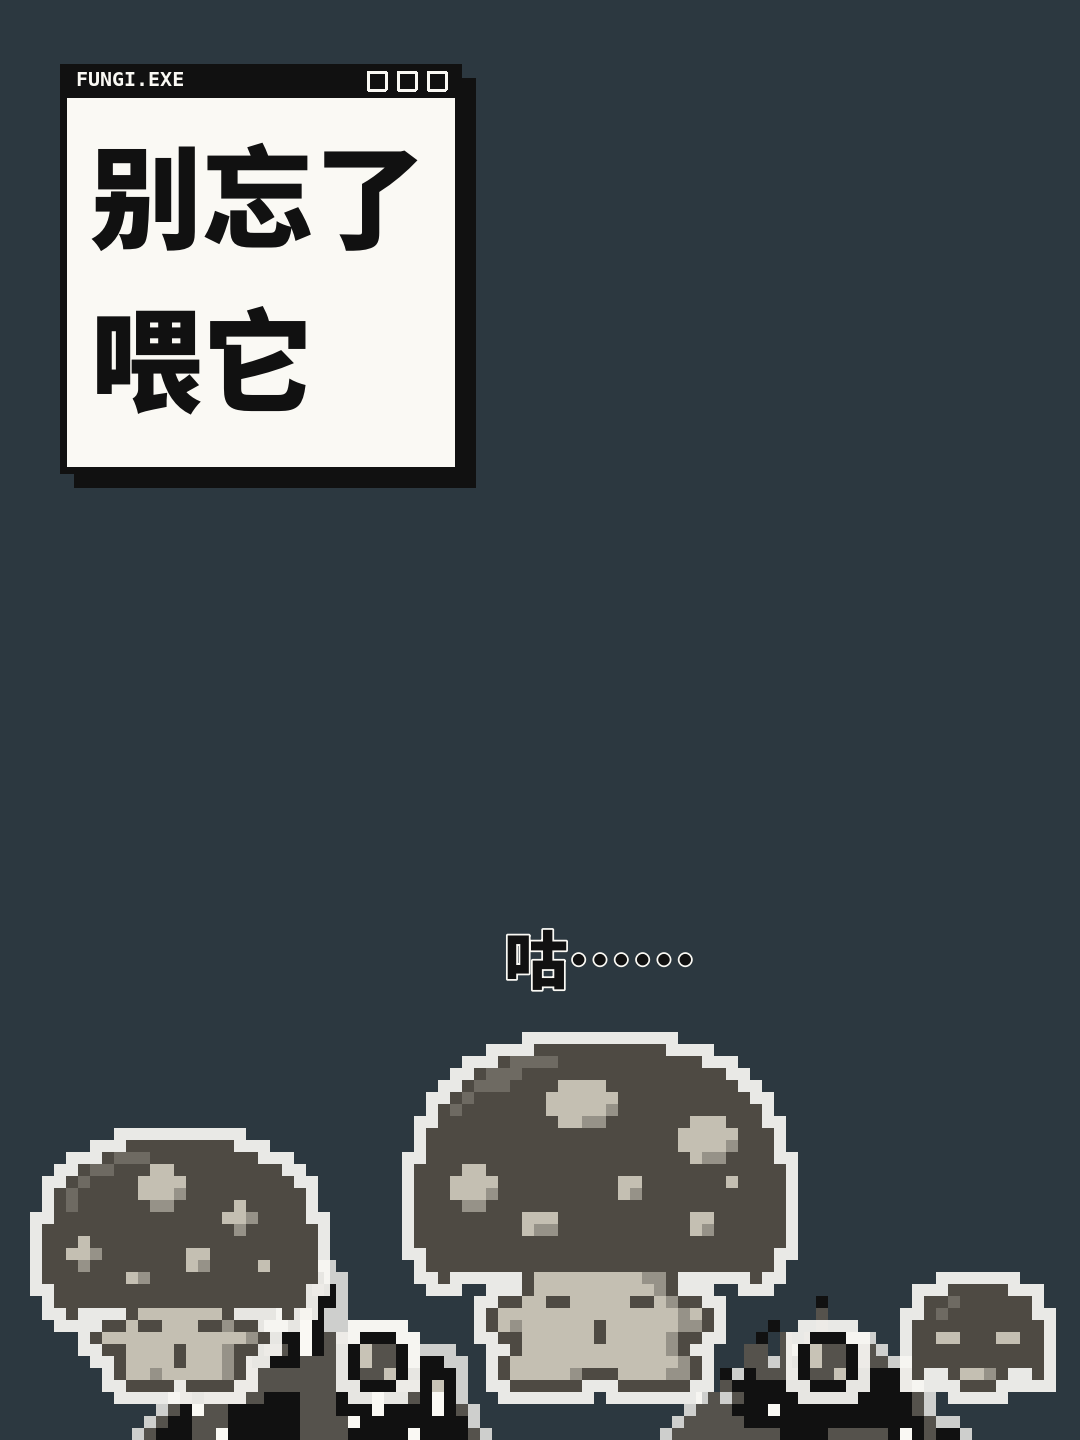
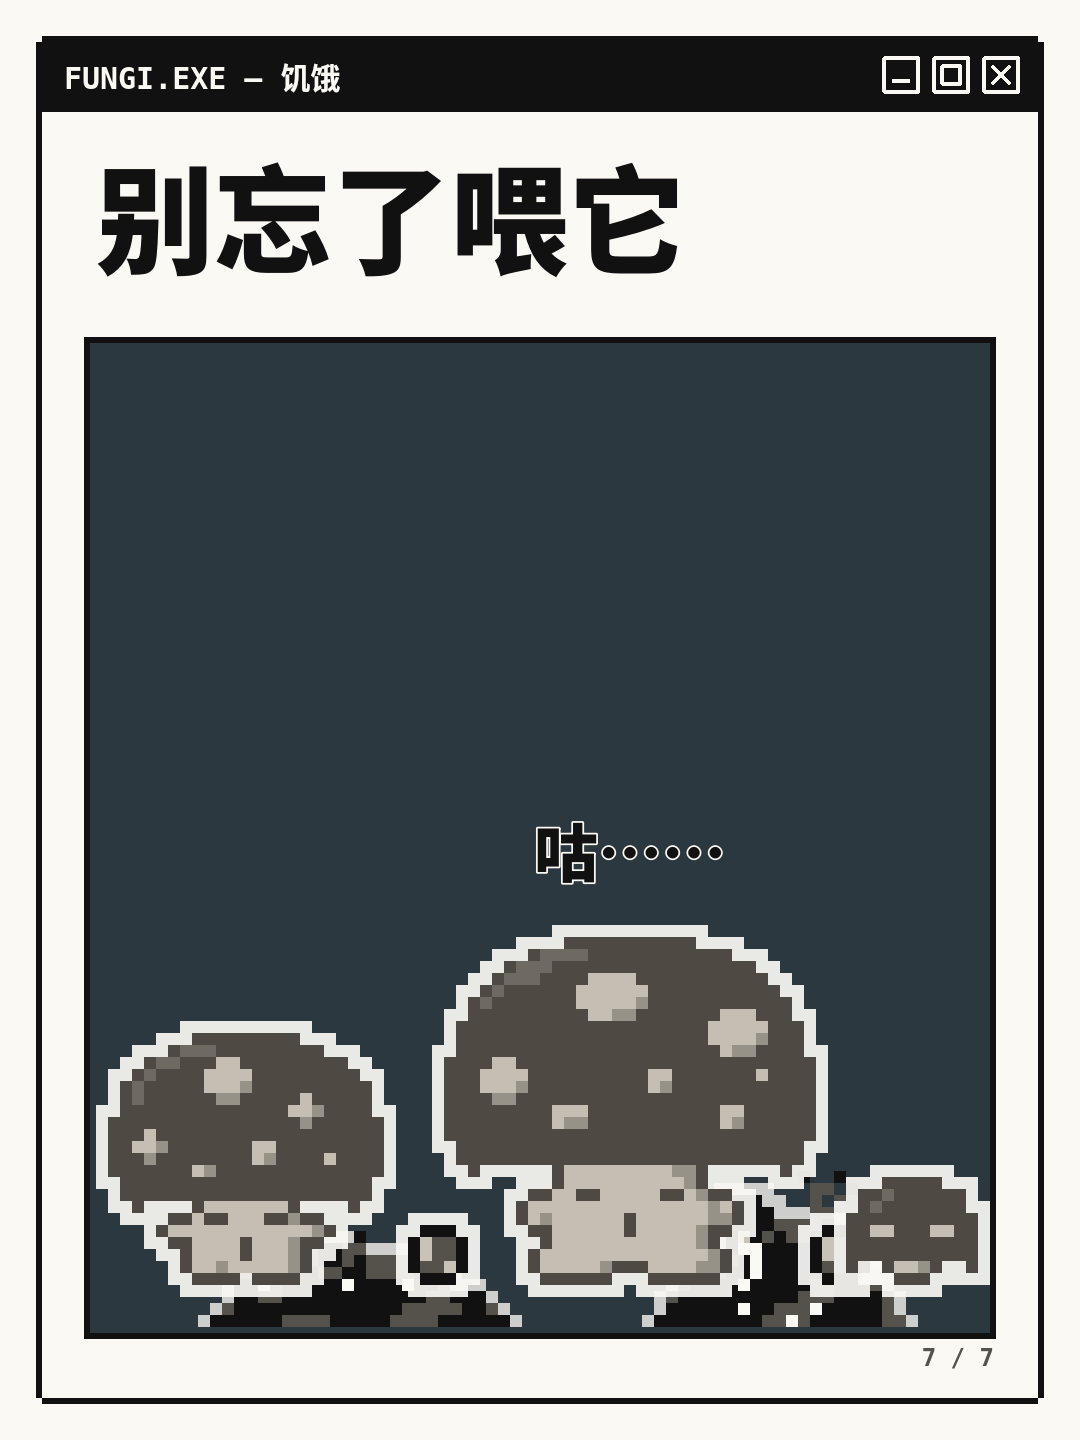
宣传图：恢复像素窗口样式，保留少字大画面
- 纸白底 + FUNGI.EXE 像素窗口 + 大号标题回归；每张只一句标题，不要副标题和数据
- 标题下方场景框占满剩余区域，3～4 倍放大：菌毯长满、满屏菌斑、吃文件特写、喷孢子、饿扁菌落
- 聊天页一问一答（标注风格示例）

Claude-Session: https://claude.ai/code/session_013FpuDuyBZYGi6UswjxSb26

diff --git a/promo/make_promo.py b/promo/make_promo.py
@@ -242,148 +242,134 @@ def put_icon(q: QPainter, rows, x, y):
     return y + img.height()
 
 
-# ───────────── 页面：少字，画面铺满 ─────────────
-
-def canvas() -> tuple[QImage, QPainter]:
-    img = QImage(W, H, QImage.Format.Format_ARGB32)
-    img.fill(WALL)
-    p = QPainter(img)
-    p.setRenderHint(QPainter.RenderHint.TextAntialiasing)
-    return img, p
+def measure(s: str, px: int, max_w: int) -> tuple[int, int]:
+    box = QFontMetrics(font(px, QFont.Weight.Bold)).boundingRect(QRect(0, 0, max_w, 2000), int(Qt.TextFlag.TextWrapAnywhere), s)
+    return box.width() + 44, box.height() + 40
 
 
-def title_box(p: QPainter, s: str, x: int = 60, y: int = 64, px: int = 100):
-    """压在画面左上角的像素小窗口，只放一句标题"""
-    f = font(px)
-    r = QFontMetrics(f).boundingRect(QRect(0, 0, W - 2 * x, 1000), int(Qt.TextFlag.TextWordWrap), s)
-    pad, bar = 30, 34
-    w, h = r.width() + 2 * pad + 6, r.height() + 2 * pad + bar - 10
-    p.fillRect(x + 14, y + 14, w, h, INK)
-    p.fillRect(x, y, w, h, INK)
-    p.fillRect(x + 7, y + bar, w - 14, h - bar - 7, PAPER)
-    text(p, QRect(x + 16, y + 3, 400, 30), "FUNGI.EXE", mono(20), PAPER)
-    for i in range(3):
-        p.setPen(QPen(PAPER, 3))
-        p.drawRect(x + w - 34 - i * 30, y + 8, 18, 18)
-    text(p, QRect(x + pad, y + bar + pad - 18, r.width() + 8, r.height() + 8), s, f)
+# ───────────── 页面：像素窗口 + 一句标题 + 大场景 ─────────────
+
+def framed(bar: str, index: str, title: str, size: int = 118):
+    """上一版的窗口外观；标题下面整块给场景"""
+    img, p = page(bar, index)
+    bottom = headline(p, 128, title, "", size=size)
+    top = bottom + 44
+    return img, p, top
 
 
-def full_scene(base_w: int, base_h: int, zoom: int, seed: int) -> Scene:
-    sc = Scene(base_w, base_h, seed=seed)
+def stage_scene(top: int, zoom: int, seed: int) -> Scene:
+    bottom = H - 36 - 70
+    sc = Scene(900 // zoom, (bottom - top) // zoom, seed=seed)
     sc.Z = zoom
     return sc
 
 
-def overgrow(sc: Scene, steps: int, points: int = 10):
-    rng = random.Random(sc.rng.random())
-    sc.grow([(e, rng.random()) for e in ("top", "right", "bottom", "left") for _ in range(points // 4 + 1)], steps)
+def place(p: QPainter, sc: Scene, top: int):
+    sc.blit(p, (W - sc.w * sc.Z) // 2, top)
+
+
+def edges(sc: Scene, steps: int, per_edge: int = 3, seed: int = 0):
+    rng = random.Random(seed)
+    sc.grow([(e, rng.random()) for e in ("top", "right", "bottom", "left") for _ in range(per_edge)], steps)
     sc.render_mat(full=True)
 
 
-def show(p: QPainter, sc: Scene):
-    sc.ox = sc.oy = 0
-    p.drawPixmap(0, 0, big(sc.img, sc.Z))
-
-
 def cover():
-    img, p = canvas()
-    sc = full_scene(360, 480, 3, seed=31)
-    overgrow(sc, 30000, 16)
+    img, p, top = framed("FUNGI.EXE", "", "我的桌面\n长蘑菇了", size=132)
+    sc = stage_scene(top, 3, seed=31)
+    edges(sc, 22000, 4, seed=2)
     rng = random.Random(8)
     sc.patches = [F.Patch(x, y, r, int(r) + 1, rng.randrange(1 << 30)) for x, y, r in
-                  ((110, 300, 6), (262, 240, 7), (300, 150, 4), (70, 195, 3.5), (180, 360, 3))]
+                  ((70, 90, 5), (215, 120, 7), (140, 40, 3.5), (255, 40, 3))]
     q = sc.begin()
     ground = sc.h - 12
-    draw_spitter(q, sc, 0.9)
-    for pm, x in ((pet(3), 112), (pet(4), 214), (pet(2, blink=True), 306)):
-        feet(q, pm, x, ground)
-    feet(q, pet(1), 262, 240 + 4)
-    feet(q, pet(0, size=4), 110, 300)
+    draw_spitter(q, sc, 0.08)
+    feet(q, pet(3), 62, ground)
+    feet(q, pet(4), 164, ground)
+    feet(q, pet(2, blink=True), 215, 120 + 2)
+    feet(q, pet(0, size=4), 70, 90)
     q.end()
-    show(p, sc)
-    title_box(p, "我的桌面\n长蘑菇了", px=112)
+    place(p, sc, top)
     p.end()
     return img
 
 
 def growth():
-    img, p = canvas()
-    sc = full_scene(540, 720, 2, seed=5)
-    sc.grow([("bottom", x / 10) for x in range(10)], 5200)
+    img, p, top = framed("FUNGI.EXE — 成长", "2 / 7", "从一个黑点开始")
+    sc = stage_scene(top, 2, seed=5)
+    sc.grow([("bottom", x / 10) for x in range(10)], 4800)
     sc.render_mat(full=True)
-    upper = [(pet(0, size=3), 150), (pet(1), 400), (pet(2), 770)]
-    lower = [(pet(3), 270), (pet(4), 770)]
-    ground_up, ground_low = 900, H - 40
-    sc.patches = [F.Patch(int(x / 2), int(ground_up / 2) - 4, r, int(r) + 1, i * 31 + 5)
+    place(p, sc, top)
+    upper_ground, lower_ground = top + 470, top + sc.h * 2 - 24
+    upper = [(pet(0, size=3), 190), (pet(1), 420), (pet(2), 760)]
+    lower = [(pet(3), 300), (pet(4), 740)]
+    sc.patches = [F.Patch(int((x - sc.ox) / 2), int((upper_ground - sc.oy) / 2) - 4, r, int(r) + 1, i * 31 + 5)
                   for i, ((_, x), r) in enumerate(zip(upper, (5, 7.5, 9)))]
     q = sc.begin()
     q.end()
-    show(p, sc)
+    place(p, sc, top)
     for pm, x in upper:
-        feet(p, big(pm, 3), x, ground_up)
+        feet(p, big(pm, 3), x, upper_ground)
     for pm, x in lower:
-        feet(p, big(pm, 3), x, ground_low)
-    title_box(p, "从一个黑点\n开始", px=112)
+        feet(p, big(pm, 3), x, lower_ground)
     p.end()
     return img
 
 
 def feeding():
-    img, p = canvas()
-    sc = full_scene(270, 360, 4, seed=6)
-    sc.grow([("bottom", 0.2), ("bottom", 0.8), ("left", 0.3), ("right", 0.6)], 2600)
+    img, p, top = framed("FUNGI.EXE — 喂食", "3 / 7", "喂它文件")
+    sc = stage_scene(top, 4, seed=6)
+    sc.grow([("bottom", 0.2), ("bottom", 0.8), ("left", 0.4), ("right", 0.5)], 2600)
     sc.render_mat(full=True)
     q = sc.begin()
     ground = sc.h - 12
     young = pet(3, mouth=True)
-    cx = 160
+    cx = 128
     feet(q, young, cx, ground)
     rng = random.Random(4)
     for _ in range(16):
-        a = rng.uniform(-2.8, -0.35)
+        ang = rng.uniform(-2.8, -0.35)
         d = rng.uniform(14, 52)
-        x, y = cx + math.cos(a) * d, ground - young.height() + 14 + math.sin(a) * d
+        x, y = cx + math.cos(ang) * d, ground - young.height() + 14 + math.sin(ang) * d
         q.fillRect(int(x) - 3, int(y) - 3, 6, 6, PAPER)
         q.fillRect(int(x) - 2, int(y) - 2, 4, 4, INK)
-    q.drawImage(34, 150, icon(FOLDER))
-    arc(q, (70, 150), (cx - 4, ground - young.height() - 4), 26, dots=9)
+    q.drawImage(22, 96, icon(FOLDER))
+    arc(q, (56, 96), (cx - 4, ground - young.height() - 4), 26, dots=9)
     doc = icon(DOC)
     q.drawImage(int(cx - 30), int(ground - young.height() - 44), doc.scaled(int(doc.width() * 0.6), int(doc.height() * 0.6)))
     q.end()
-    show(p, sc)
+    place(p, sc, top)
     fx, fy = sc.at(cx, ground - young.height())
-    label(p, "+19", fx + 190, fy - 10, px=84)
-    title_box(p, "喂它文件", px=112)
+    label(p, "+19", fx + 200, fy + 10, px=84)
     p.end()
     return img
 
 
 def overgrown():
-    img, p = canvas()
-    sc = full_scene(360, 480, 3, seed=77)
-    overgrow(sc, 40000, 24)
+    img, p, top = framed("FUNGI.EXE — 菌毯", "4 / 7", "放着不管\n就长满了")
+    sc = stage_scene(top, 3, seed=77)
+    edges(sc, 30000, 6, seed=5)
     rng = random.Random(21)
     spots = []
-    while len(spots) < 9:
-        x, y = rng.uniform(60, 300), rng.uniform(80, 420)
-        if all(math.hypot(x - a, y - b) > 62 for a, b in spots) and not (x < 210 and y < 130) and math.hypot(x - 180, y - 260) > 50:
+    while len(spots) < 8:
+        x, y = rng.uniform(50, sc.w - 50), rng.uniform(45, sc.h - 45)
+        if all(math.hypot(x - a, y - b) > 58 for a, b in spots) and math.hypot(x - sc.w / 2, y - sc.h / 2) > 45:
             spots.append((x, y))
-    sc.patches = [F.Patch(int(x), int(y), rng.uniform(3.5, 8.5), 9, rng.randrange(1 << 30)) for x, y in spots]
+    sc.patches = [F.Patch(int(x), int(y), rng.uniform(3.5, 8), 9, rng.randrange(1 << 30)) for x, y in spots]
     q = sc.begin()
-    feet(q, pet(0, size=3), 180, 270)
+    feet(q, pet(0, size=3), sc.w / 2, sc.h / 2 + 10)
     q.end()
-    show(p, sc)
-    title_box(p, "放着不管\n就长满了", px=112)
+    place(p, sc, top)
     p.end()
     return img
 
 
 def spitter_page():
-    img, p = canvas()
-    sc = full_scene(360, 480, 3, seed=14)
-    sc.grow([("bottom", x / 6) for x in range(6)] + [("left", 0.5), ("right", 0.5)], 6000)
+    img, p, top = framed("FUNGI.EXE — 喷孢菌", "5 / 7", "它会喷孢子")
+    sc = stage_scene(top, 3, seed=14)
+    sc.grow([("bottom", x / 6) for x in range(6)] + [("left", 0.5), ("right", 0.5), ("top", 0.5)], 6000)
     sc.render_mat(full=True)
-    landings = [(70, 250, 5.5), (300, 200, 4.5), (180, 150, 0), (290, 330, 0), (60, 380, 3.5)]
+    landings = [(55, 150, 5.5), (245, 110, 4.5), (150, 70, 0), (240, 230, 0), (60, 260, 3.5)]
     sc.patches = [F.Patch(x, y, r, int(r) + 1, i * 97) for i, (x, y, r) in enumerate(landings) if r]
     q = sc.begin()
     sx, sy = draw_spitter(q, sc, 0.5, "shoot")
@@ -391,53 +377,47 @@ def spitter_page():
         arc(q, (sx, sy), (x, y), 70, dots=14, size=4)
         if not r:
             feet(q, F.art_pixmap(0, 3), x, y + 6)
-    for k in (0.35, 0.6):
-        tx, ty = 300, 200
-        cx, cy = (sx + tx) / 2, min(sy, ty) - 70
-        x = (1 - k) ** 2 * sx + 2 * (1 - k) * k * cx + k * k * tx
-        y = (1 - k) ** 2 * sy + 2 * (1 - k) * k * cy + k * k * ty
-        feet(q, F.art_pixmap(0, 3), x, y)
     q.end()
-    show(p, sc)
-    title_box(p, "它会喷孢子", px=112)
+    place(p, sc, top)
     p.end()
     return img
 
 
 def chat_page():
-    img, p = canvas()
-    sc = full_scene(360, 480, 3, seed=19)
-    sc.grow([("bottom", x / 5) for x in range(5)] + [("left", 0.7)], 3000)
+    img, p, top = framed("FUNGI.EXE — 聊天", "6 / 7", "双击它")
+    sc = stage_scene(top, 3, seed=19)
+    sc.grow([("bottom", x / 5) for x in range(5)] + [("left", 0.7), ("right", 0.3)], 3200)
     sc.render_mat(full=True)
     q = sc.begin()
     ground = sc.h - 12
-    feet(q, pet(4), 180, ground)
+    feet(q, pet(4), sc.w / 2, ground)
     q.end()
-    show(p, sc)
-    ax, ay = sc.at(180, ground - pet(4).height())
-    bubble(p, "我知道你不是真的\n在问蘑菇。", W / 2, ay + 30, px=76, max_w=960)
-    title_box(p, "双击\n它回你一句", px=112)
-    text(p, QRect(W - 260, H - 60, 220, 40), "* 风格示例", font(26, QFont.Weight.Medium), QColor(250, 249, 244, 150), Qt.AlignmentFlag.AlignRight)
+    place(p, sc, top)
+    ux, uy = sc.at(sc.w - 20, 40)
+    uw, uh = measure("你是 AI 吧", 56, 700)
+    bubble(p, "你是 AI 吧", ux - uw / 2, uy + uh, px=56, max_w=700, dark=True, tail=False)
+    ax, ay = sc.at(sc.w / 2, ground - pet(4).height())
+    bubble(p, "我知道你不是真的\n在问蘑菇。", W / 2, ay + 24, px=64, max_w=800)
+    text(p, QRect(96, H - 36 - 62, 500, 40), "* 风格示例", font(26, QFont.Weight.Medium), DUST)
     p.end()
     return img
 
 
 def hunger_page():
-    img, p = canvas()
-    sc = full_scene(360, 480, 3, seed=44)
-    sc.grow([("bottom", 0.25), ("bottom", 0.75)], 500)
+    img, p, top = framed("FUNGI.EXE — 饥饿", "7 / 7", "别忘了喂它")
+    sc = stage_scene(top, 3, seed=44)
+    sc.grow([("bottom", 0.25), ("bottom", 0.75)], 420)
     sc.render_mat(full=True)
     q = sc.begin()
     ground = sc.h - 12
-    for pm, x in ((pet(3, wither=True, mood="starving"), 60), (pet(0, wither=True, mood="dormant"), 126),
-                  (pet(4, wither=True, mood="starving"), 200), (pet(0, wither=True, mood="dormant"), 276),
-                  (pet(1, wither=True, mood="starving"), 326)):
+    for pm, x in ((pet(3, wither=True, mood="starving"), 52), (pet(0, wither=True, mood="dormant"), 116),
+                  (pet(4, wither=True, mood="starving"), 180), (pet(0, wither=True, mood="dormant"), 250),
+                  (pet(1, wither=True, mood="starving"), 274)):
         feet(q, pm, x, ground)
     q.end()
-    show(p, sc)
-    fx, fy = sc.at(200, ground - pet(4).height())
+    place(p, sc, top)
+    fx, fy = sc.at(180, ground - pet(4).height())
     label(p, "咕……", fx, fy - 36, px=64)
-    title_box(p, "别忘了\n喂它", px=112)
     p.end()
     return img
 

diff --git a/promo/小红书文案.md b/promo/小红书文案.md
@@ -51,15 +51,15 @@ GitHub：7SeaJim/spores（链接放评论区）
 
 | 顺序 | 文件 | 画面 |
 | --- | --- | --- |
-| 1（封面） | `out/01_cover.png` | 我的桌面长蘑菇了：菌毯长满一圈、菌斑、菌落和喷孢菌 |
+| 1（封面） | `out/01_cover.png` | 我的桌面长蘑菇了：菌毯长满一圈、菌斑、蘑菇和喷孢菌 |
 | 2 | `out/02_growth.png` | 从一个黑点开始：五个阶段放大 |
 | 3 | `out/03_feeding.png` | 喂它文件：张嘴吃文件特写 |
 | 4 | `out/04_overgrown.png` | 放着不管就长满了：满屏菌毯和菌斑 |
 | 5 | `out/05_spitter_page.png` | 它会喷孢子 |
-| 6 | `out/06_chat_page.png` | 双击它回你一句（风格示例） |
+| 6 | `out/06_chat_page.png` | 双击它：「你是 AI 吧」「我知道你不是真的在问蘑菇。」（风格示例） |
 | 7 | `out/07_hunger_page.png` | 别忘了喂它：饿扁发灰的菌落 |
 
-配图只留一句标题，玩法、会删文件的提醒和 GitHub 地址都在正文里。
+配图沿用 FUNGI.EXE 像素窗口的样式，每张只放一句标题，下面是放大的游戏画面；玩法、会删文件的提醒和 GitHub 地址都在正文里。
 
 ## 发布建议
 
